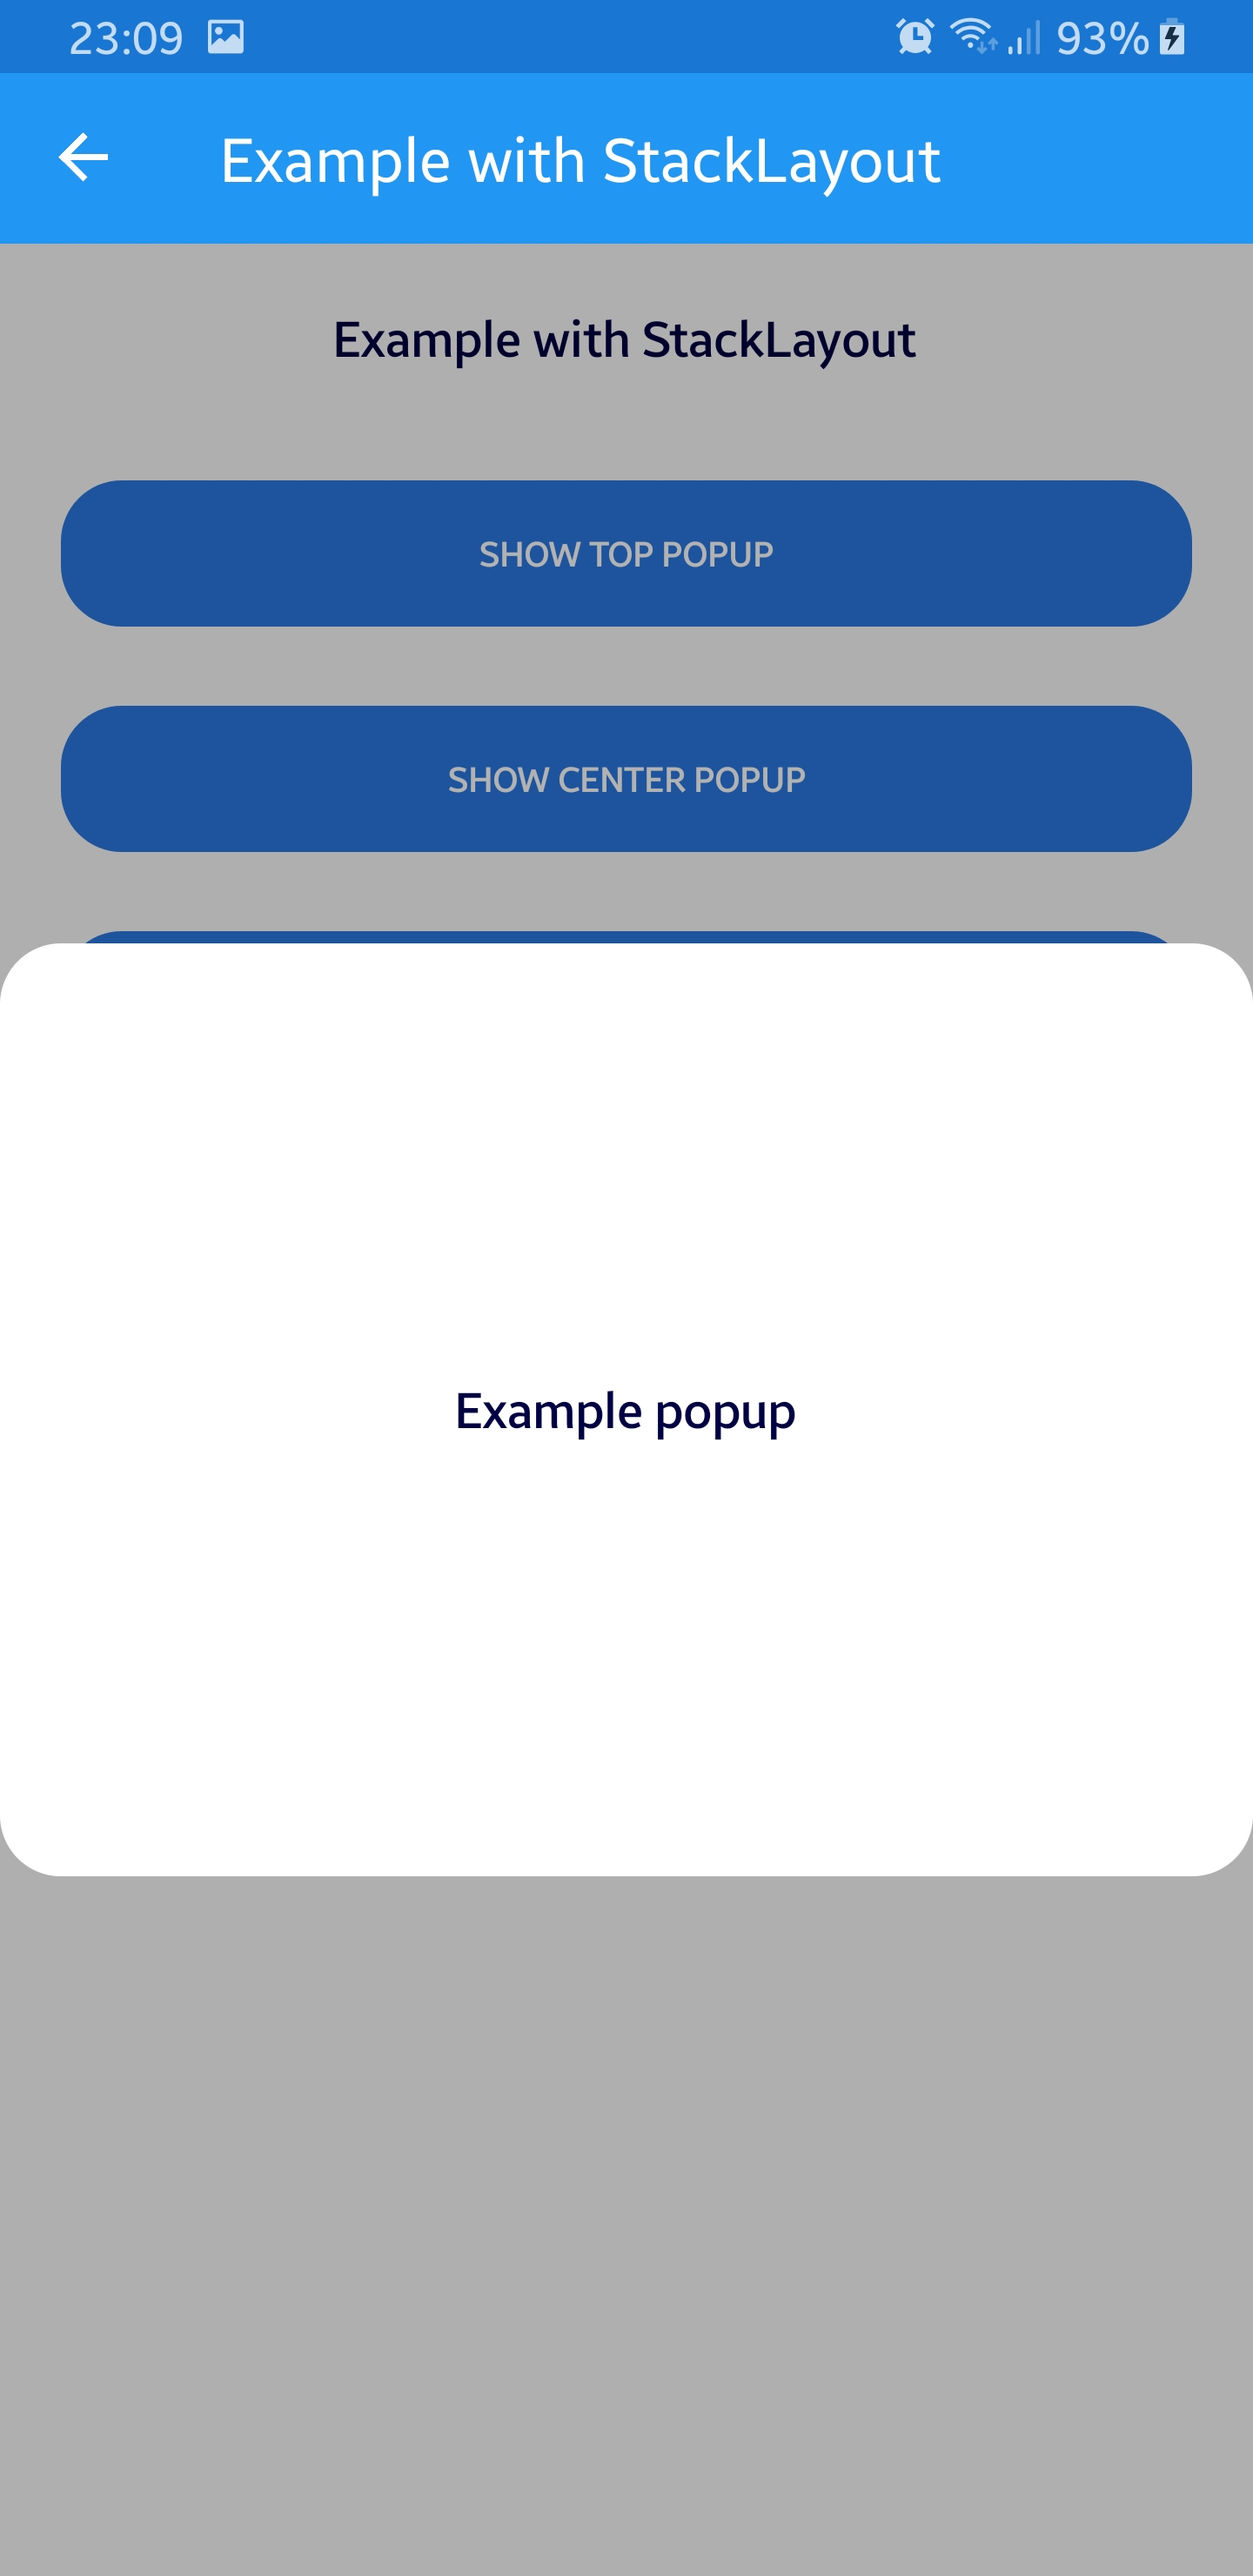
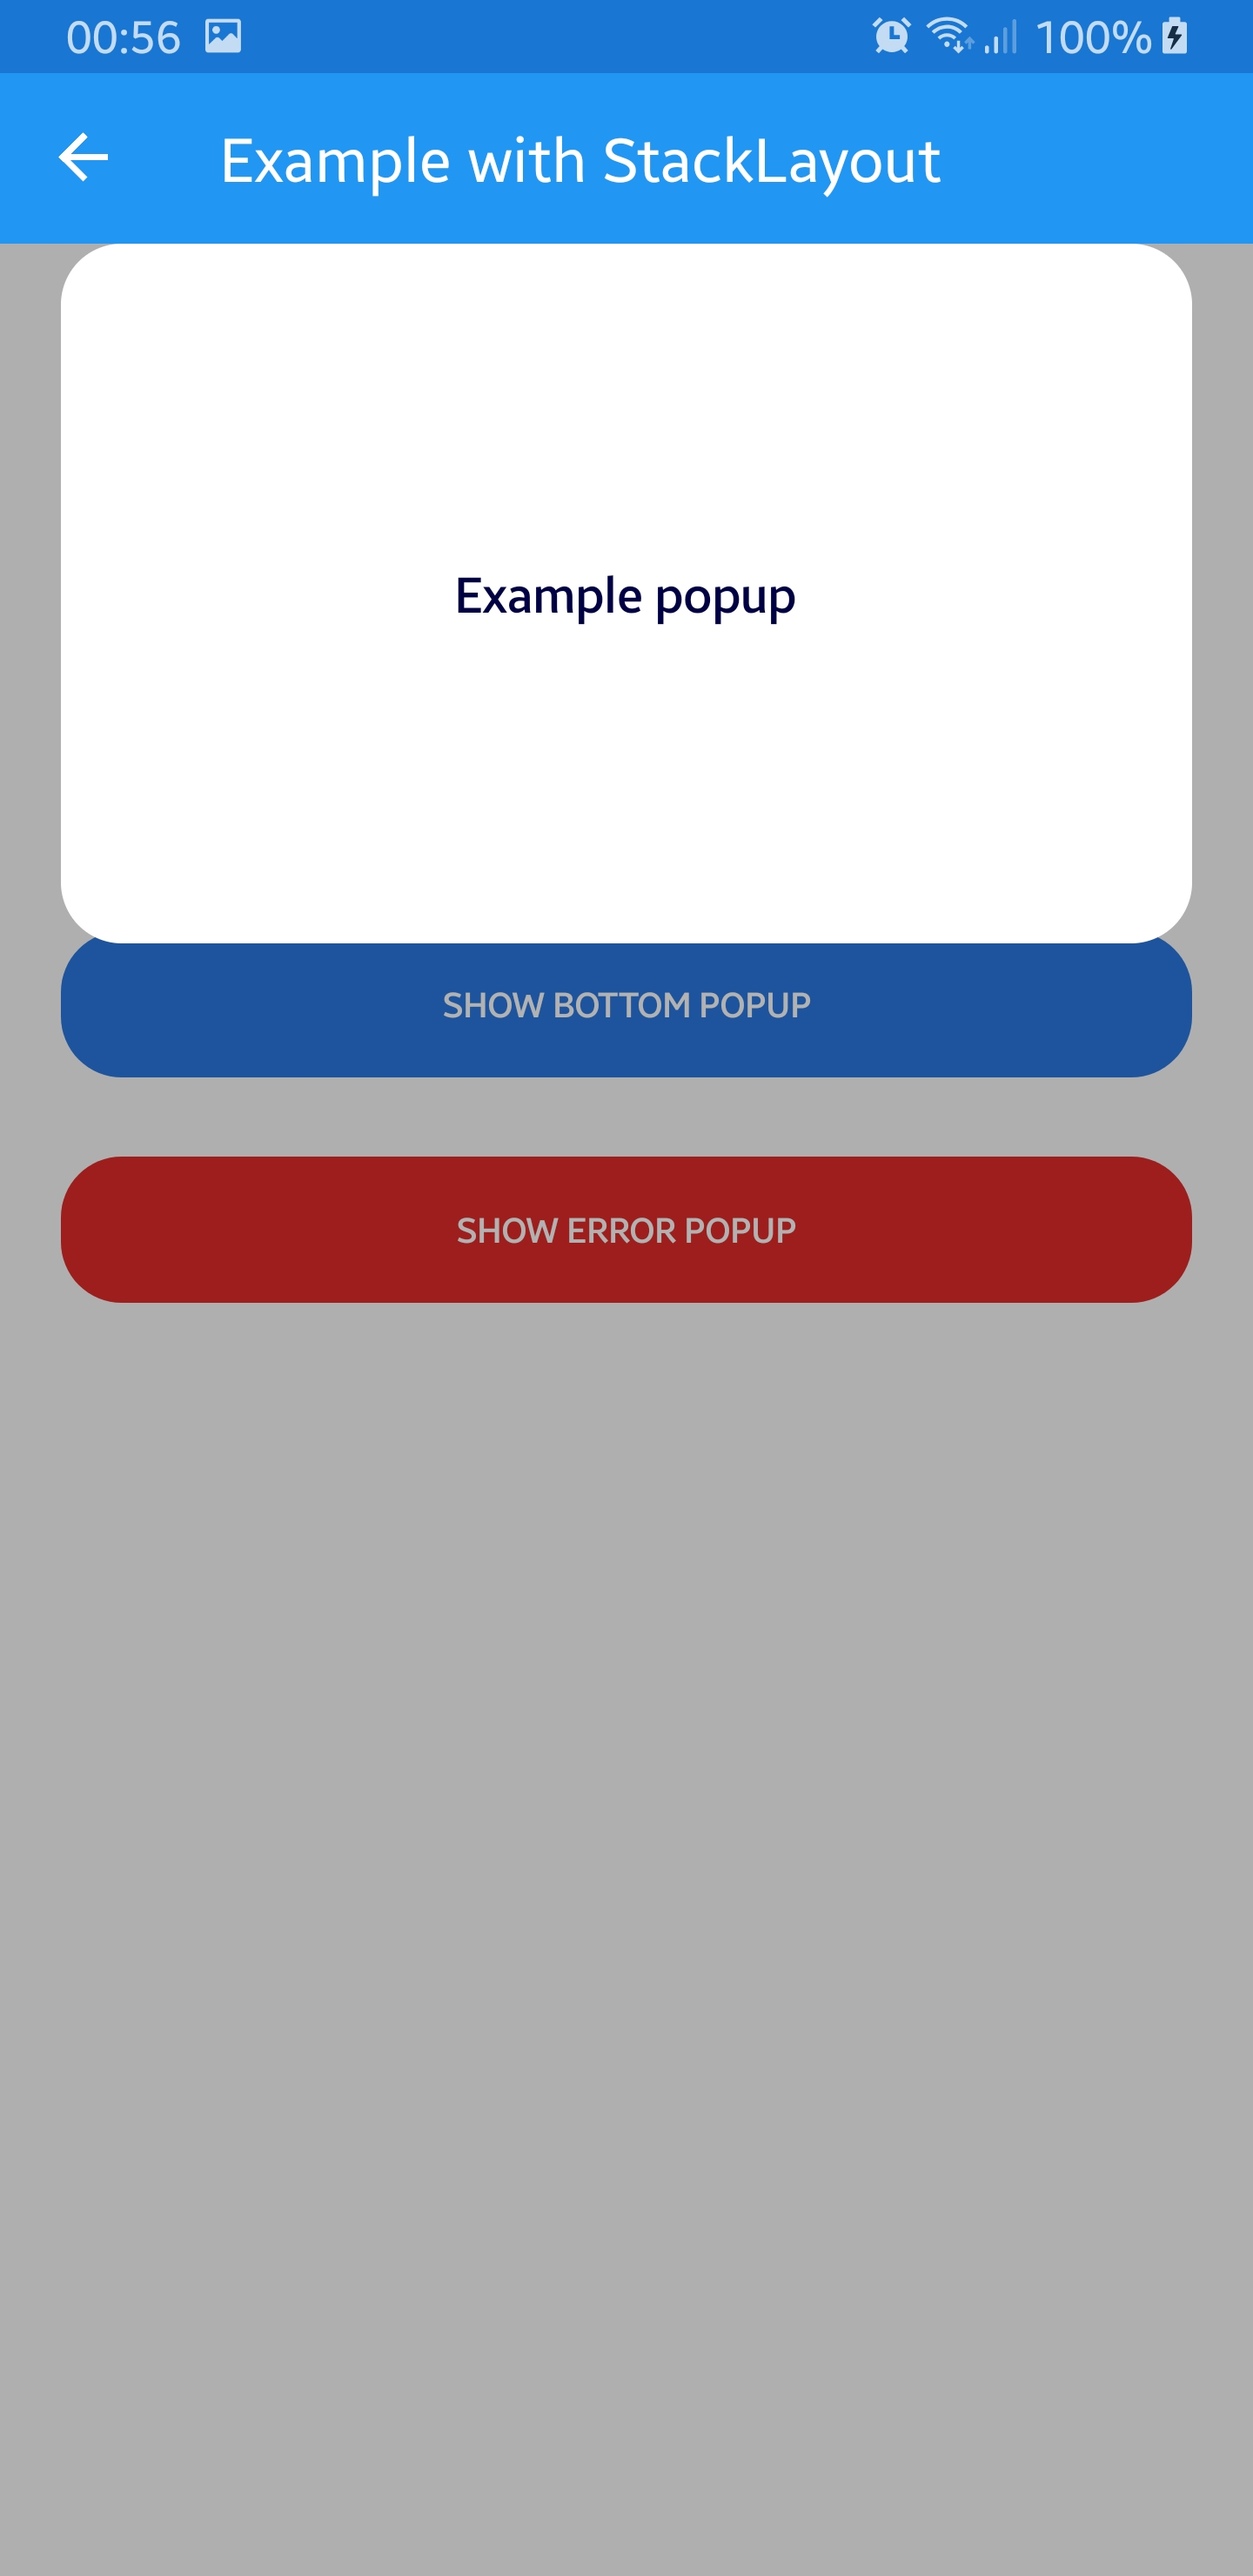
Update Example popup

diff --git a/OverlayLayout/OverlayLayout/Popups/ExamplePopup2.xaml b/OverlayLayout/OverlayLayout/Popups/ExamplePopup2.xaml
@@ -6,17 +6,21 @@
              mc:Ignorable="d"
              x:Class="OverlayLayout.Popups.ExamplePopup2">
     <ContentView.Content>
-        <Frame Margin="20,0" CornerRadius="20" BackgroundColor="#FFE4E4" HasShadow="false">
-            <StackLayout VerticalOptions="FillAndExpand" HorizontalOptions="FillAndExpand">
-                <Frame CornerRadius="20" Padding="10" BackgroundColor="#FFBBBB" HasShadow="false">
-                    <Label TextColor="#440000" FontAttributes="Bold" FontSize="18"
-                   VerticalOptions="CenterAndExpand" HorizontalOptions="CenterAndExpand" 
+        <Frame Margin="20,0" CornerRadius="20" BackgroundColor="#FF4444" Padding="0">
+            <StackLayout Margin="0" VerticalOptions="FillAndExpand" HorizontalOptions="FillAndExpand" Padding="0">
+                <Label TextColor="White" Padding="20,10,20,5" FontAttributes="Bold" FontSize="18"
+                   VerticalOptions="CenterAndExpand" HorizontalOptions="StartAndExpand"
                    Text="Example Error Popup" />
-                </Frame>
-                <Label FontSize="16" Margin="0,20" TextColor="#770000" Text="Lorem ipsum dolor sit amet, consectetur adipiscing elit. Duis at justo sollicitudin erat mattis placerat. Praesent pellentesque nunc lacus, interdum tempus erat malesuada sed...." />
-                <Button x:Name="OK" WidthRequest="40" HeightRequest="20" Padding="0"
-                        FontAttributes="Bold" TextColor="#E90000" BackgroundColor="Transparent" 
-                        VerticalOptions="EndAndExpand" HorizontalOptions="EndAndExpand" Text="Ok" Clicked="OK_Clicked" />
+                <StackLayout VerticalOptions="FillAndExpand" HorizontalOptions="FillAndExpand" Padding="0">
+                    <Frame  VerticalOptions="FillAndExpand" HorizontalOptions="FillAndExpand" CornerRadius="20" BackgroundColor="#F5f5f5" HasShadow="false" Padding="0">
+                        <StackLayout VerticalOptions="FillAndExpand" HorizontalOptions="FillAndExpand" Padding="10">
+                            <Label FontSize="16" Margin="0,20" TextColor="#770000" Text="Lorem ipsum dolor sit amet, consectetur adipiscing elit. Duis at justo sollicitudin erat mattis placerat. Praesent pellentesque nunc lacus, interdum tempus erat malesuada sed...." />
+                            <Button x:Name="OK" WidthRequest="40" HeightRequest="20" Padding="0"
+                                FontAttributes="Bold" TextColor="#FF4444" BackgroundColor="Transparent" 
+                                VerticalOptions="EndAndExpand" HorizontalOptions="EndAndExpand" Text="Ok" Clicked="OK_Clicked" />
+                        </StackLayout>
+                    </Frame>
+                </StackLayout>
             </StackLayout>
         </Frame>
     </ContentView.Content>

diff --git a/OverlayLayout/OverlayLayout/Popups/ExamplePopup1.xaml b/OverlayLayout/OverlayLayout/Popups/ExamplePopup1.xaml
@@ -6,7 +6,7 @@
              mc:Ignorable="d"
              x:Class="OverlayLayout.Popups.ExamplePopup1">
     <ContentView.Content>
-        <Frame CornerRadius="20" BackgroundColor="#fff" HasShadow="false">
+        <Frame CornerRadius="20" BackgroundColor="#fff" HasShadow="false" Margin="20,0">
             <Label TextColor="#000044" FontAttributes="Bold" FontSize="18"
                    VerticalOptions="CenterAndExpand" HorizontalOptions="CenterAndExpand" 
                    Text="Example popup" />

diff --git a/OverlayLayout/OverlayLayout/Pages/GridPage.xaml.cs b/OverlayLayout/OverlayLayout/Pages/GridPage.xaml.cs
@@ -27,7 +27,7 @@ namespace OverlayLayout.Pages
             await Task.Run(() =>
             {
                 OverlayHelper.Open(new ExamplePopup1(), AbsoluteLayoutFlags.All,
-                new Rectangle(0, 0, 1, 0.4), Color.FromHex("#4d000000"));
+                new Rectangle(0, 0, 1, 0.3), Color.FromHex("#4d000000"));
             });
         }
 
@@ -36,7 +36,7 @@ namespace OverlayLayout.Pages
             await Task.Run(() =>
             {
                 OverlayHelper.Open(new ExamplePopup1(), AbsoluteLayoutFlags.All,
-                    new Rectangle(0, 0.5, 1, 0.4), Color.FromHex("#4d000000"));
+                    new Rectangle(0, 0.5, 1, 0.3), Color.FromHex("#4d000000"));
             });
         }
 
@@ -45,7 +45,7 @@ namespace OverlayLayout.Pages
             await Task.Run(() =>
             {
                 OverlayHelper.Open(new ExamplePopup1(), AbsoluteLayoutFlags.All,
-                    new Rectangle(0, 1, 1, 0.4), Color.FromHex("#4d000000"));
+                    new Rectangle(0, 1, 1, 0.3), Color.FromHex("#4d000000"));
             });
         }
 

diff --git a/OverlayLayout/OverlayLayout/Pages/ScrollPage.xaml.cs b/OverlayLayout/OverlayLayout/Pages/ScrollPage.xaml.cs
@@ -26,7 +26,7 @@ namespace OverlayLayout.Pages
             await Task.Run(() =>
             {
                 OverlayHelper.Open(new ExamplePopup1(), AbsoluteLayoutFlags.All,
-                new Rectangle(0, 0, 1, 0.4), Color.FromHex("#4d000000"));
+                new Rectangle(0, 0, 1, 0.3), Color.FromHex("#4d000000"));
             });
         }
 
@@ -35,7 +35,7 @@ namespace OverlayLayout.Pages
             await Task.Run(() =>
             {
                 OverlayHelper.Open(new ExamplePopup1(), AbsoluteLayoutFlags.All,
-                    new Rectangle(0, 0.5, 1, 0.4), Color.FromHex("#4d000000"));
+                    new Rectangle(0, 0.5, 1, 0.3), Color.FromHex("#4d000000"));
             });
         }
 
@@ -44,7 +44,7 @@ namespace OverlayLayout.Pages
             await Task.Run(() =>
             {
                 OverlayHelper.Open(new ExamplePopup1(), AbsoluteLayoutFlags.All,
-                    new Rectangle(0, 1, 1, 0.4), Color.FromHex("#4d000000"));
+                    new Rectangle(0, 1, 1, 0.3), Color.FromHex("#4d000000"));
             });
         }
 

diff --git a/OverlayLayout/OverlayLayout/Pages/StackPage.xaml.cs b/OverlayLayout/OverlayLayout/Pages/StackPage.xaml.cs
@@ -26,7 +26,7 @@ namespace OverlayLayout.Pages
             await Task.Run(() =>
             {
                 OverlayHelper.Open(new ExamplePopup1(), AbsoluteLayoutFlags.All,
-                new Rectangle(0, 0, 1, 0.4), Color.FromHex("#4d000000"));
+                new Rectangle(0, 0, 1, 0.3), Color.FromHex("#4d000000"));
             });
         }
 
@@ -35,7 +35,7 @@ namespace OverlayLayout.Pages
             await Task.Run(() =>
             {
                 OverlayHelper.Open(new ExamplePopup1(), AbsoluteLayoutFlags.All,
-                    new Rectangle(0, 0.5, 1, 0.4), Color.FromHex("#4d000000"));
+                    new Rectangle(0, 0.5, 1, 0.3), Color.FromHex("#4d000000"));
             });
         }
 
@@ -44,7 +44,7 @@ namespace OverlayLayout.Pages
             await Task.Run(() =>
             {
                 OverlayHelper.Open(new ExamplePopup1(), AbsoluteLayoutFlags.All,
-                    new Rectangle(0, 1, 1, 0.4), Color.FromHex("#4d000000"));
+                    new Rectangle(0, 1, 1, 0.3), Color.FromHex("#4d000000"));
             });
         }
 
